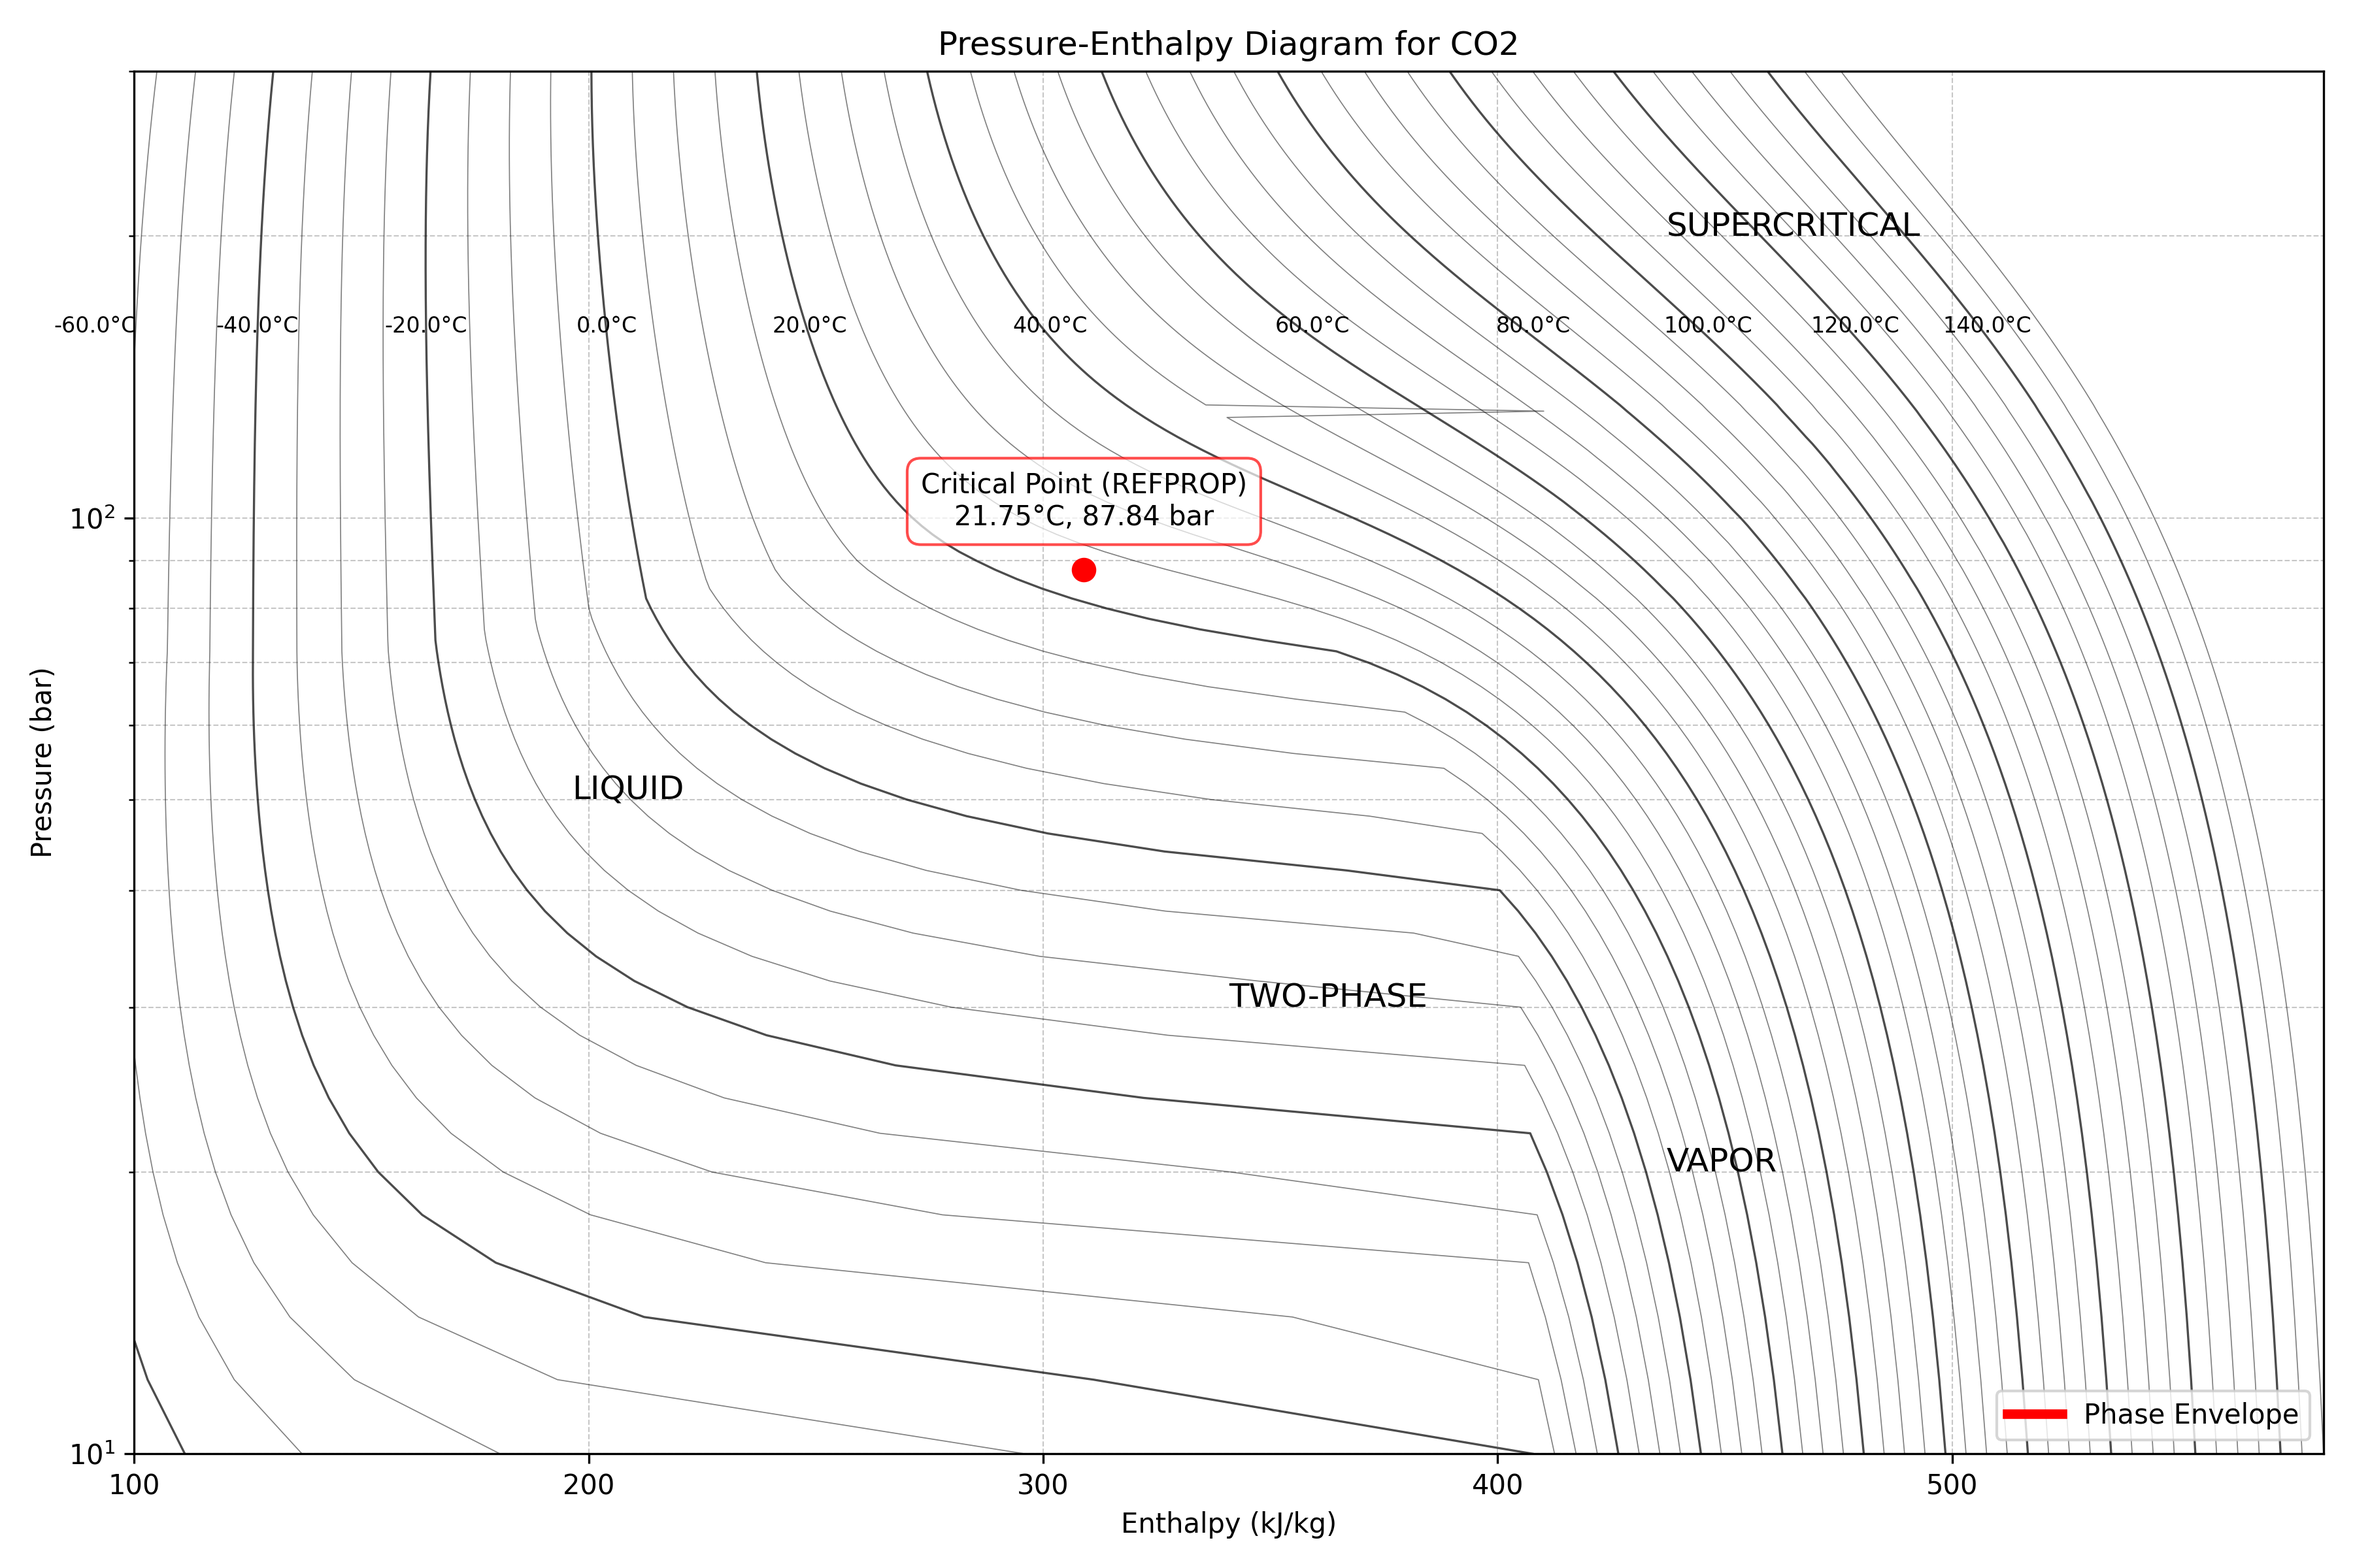
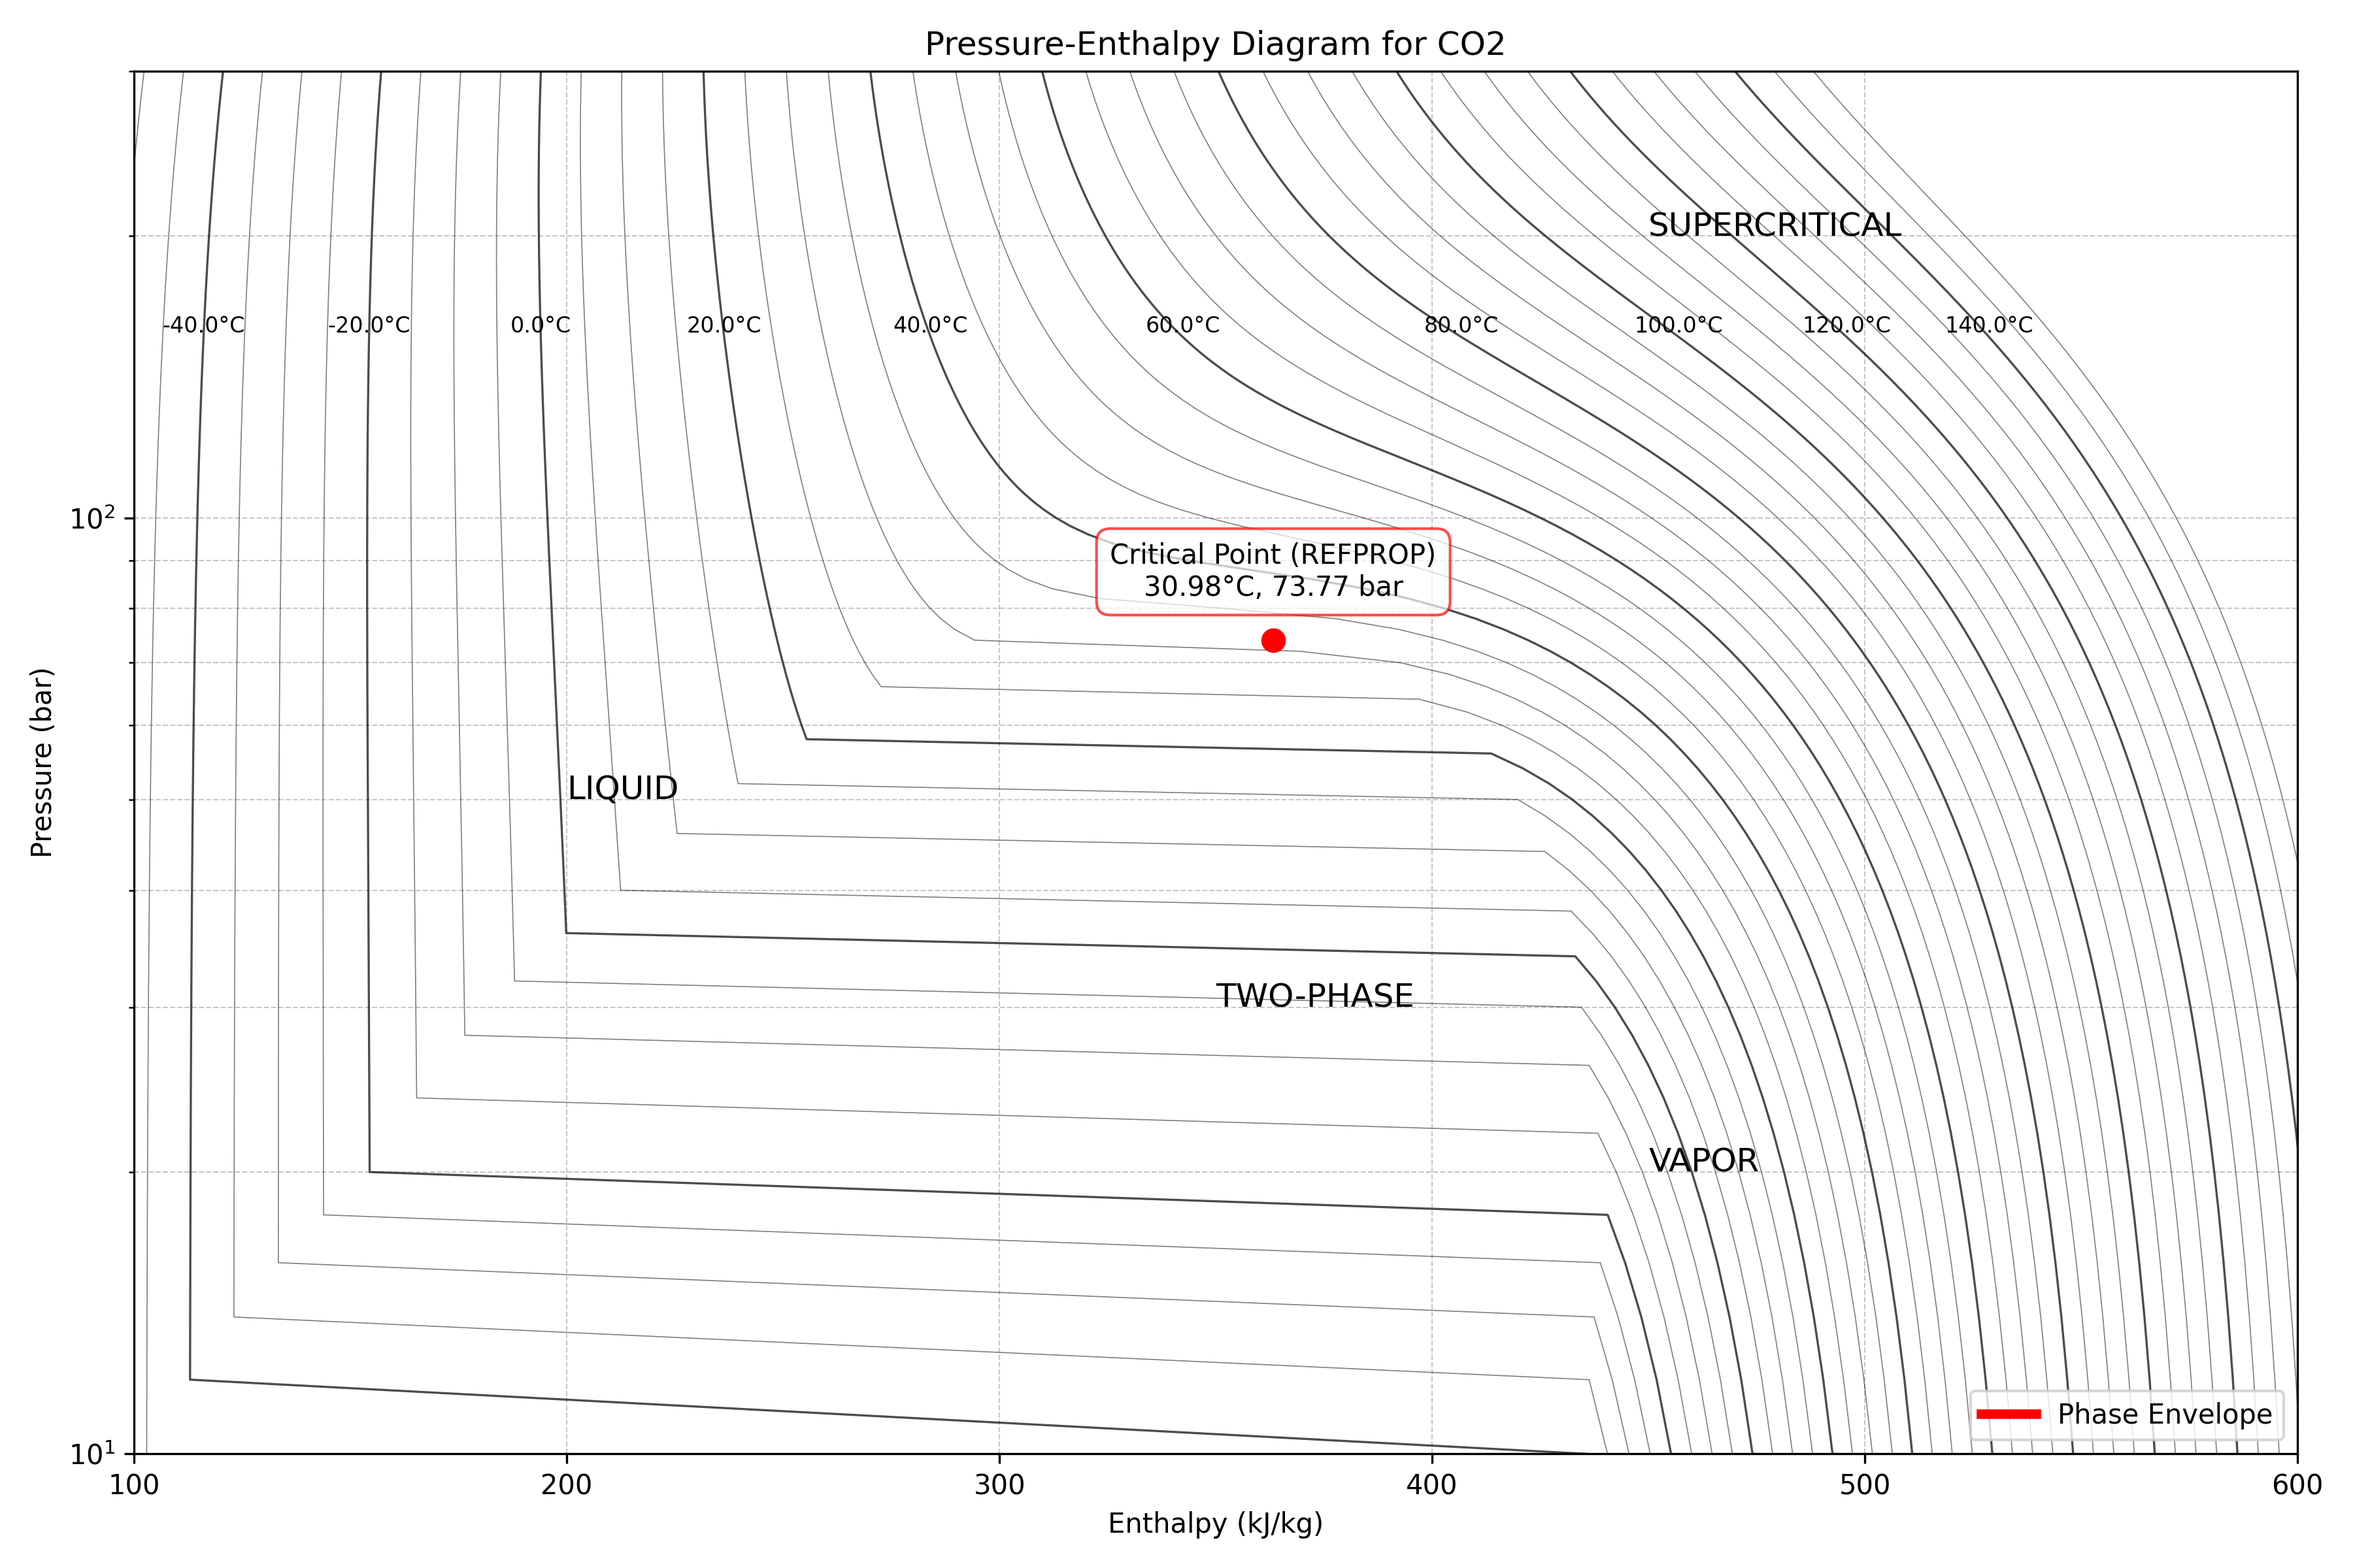
cleaned up endpoints

diff --git a/API/endpoints/__init__.py b/API/endpoints/__init__.py
@@ -1,17 +1,17 @@
 from flask import Blueprint
 
 # Create blueprints - only define them here
-calculate_bp = Blueprint('pt_flash', __name__)
+pt_flash_bp = Blueprint('pt_flash', __name__)
 ph_flash_bp = Blueprint('ph_flash', __name__)
 
 # List of all blueprints to register with the app
 blueprints = [
-    calculate_bp,
+    pt_flash_bp,
     ph_flash_bp,
     # Add new blueprints here as you create them
 ]
 
 # Import views AFTER defining blueprints to avoid circular imports
 # These imports will apply the route decorators to the blueprints
-from API.endpoints import calculate
+from API.endpoints import pt_flash
 from API.endpoints import ph_flash

diff --git a/API/endpoints/pt_flash.py b/API/endpoints/pt_flash.py
@@ -4,7 +4,7 @@ import sys
 import traceback
 from typing import List, Dict, Any
 
-from API.endpoints import calculate_bp
+from API.endpoints import pt_flash_bp
 from API.refprop_setup import RP
 from API.unit_converter import UnitConverter
 from API.utils.helpers import get_phase
@@ -125,8 +125,8 @@ def calculate_properties(z: List[float], T: float, P: float, units_system: str =
     
     return properties
 
-@calculate_bp.route('/pt_flash', methods=['POST'])
-def calculate():
+@pt_flash_bp.route('/pt_flash', methods=['POST'])
+def pt_flash():
     try:
         data = request.get_json(force=True)
         # Validate that required fields exist

diff --git a/Example_scripts/pt_flash_pressure_entalphy_chart.py b/Example_scripts/pt_flash_pressure_entalphy_chart.py
@@ -12,8 +12,8 @@ api_url = "http://localhost:5051/pt_flash"  # Modify this if your API is hosted 
 # Configure the request payload for CO2
 payload = {
     "composition": [
-    {"fluid": "CO2", "fraction": 0.9000},
-    {"fluid": "NITROGEN", "fraction": 0.1}
+    {"fluid": "CO2", "fraction": 1.000},
+    {"fluid": "NITROGEN", "fraction": 0.0}
 
     ],
     "pressure_range": {
